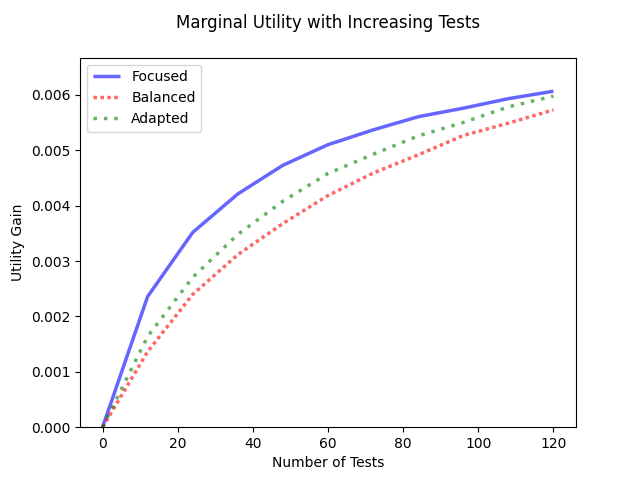
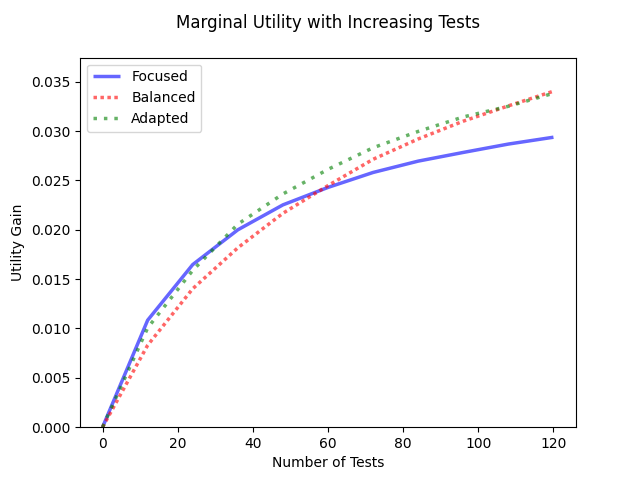
example SC updates

diff --git a/bayesianexperimentation/bayesianexperimentaldesign.py b/bayesianexperimentation/bayesianexperimentaldesign.py
@@ -2193,7 +2193,15 @@ def exampleSupplyChainForPaper():
     plotMargUtil(margUtilArr, testMax, testInt, colors=['blue', 'red', 'green'],
                  labels=['Focused', 'Balanced', 'Adapted'])
     '''
-    margUtilArr = np.
+    margUtilArr = np.array([[0.        , 0.0108342 , 0.01647275, 0.01999189, 0.02251944,
+        0.02428747, 0.02580267, 0.02695109, 0.02783155, 0.02867917,
+        0.02937227],
+       [0.        , 0.00830011, 0.01402739, 0.01817123, 0.02166746,
+        0.0244746 , 0.02713781, 0.02919331, 0.03099786, 0.03254685,
+        0.0340339 ],
+       [0.        , 0.01005523, 0.01588727, 0.02056157, 0.02362531,
+        0.02611785, 0.02830608, 0.02996017, 0.03142522, 0.03250609,
+        0.03382749]])
     '''
 
 
